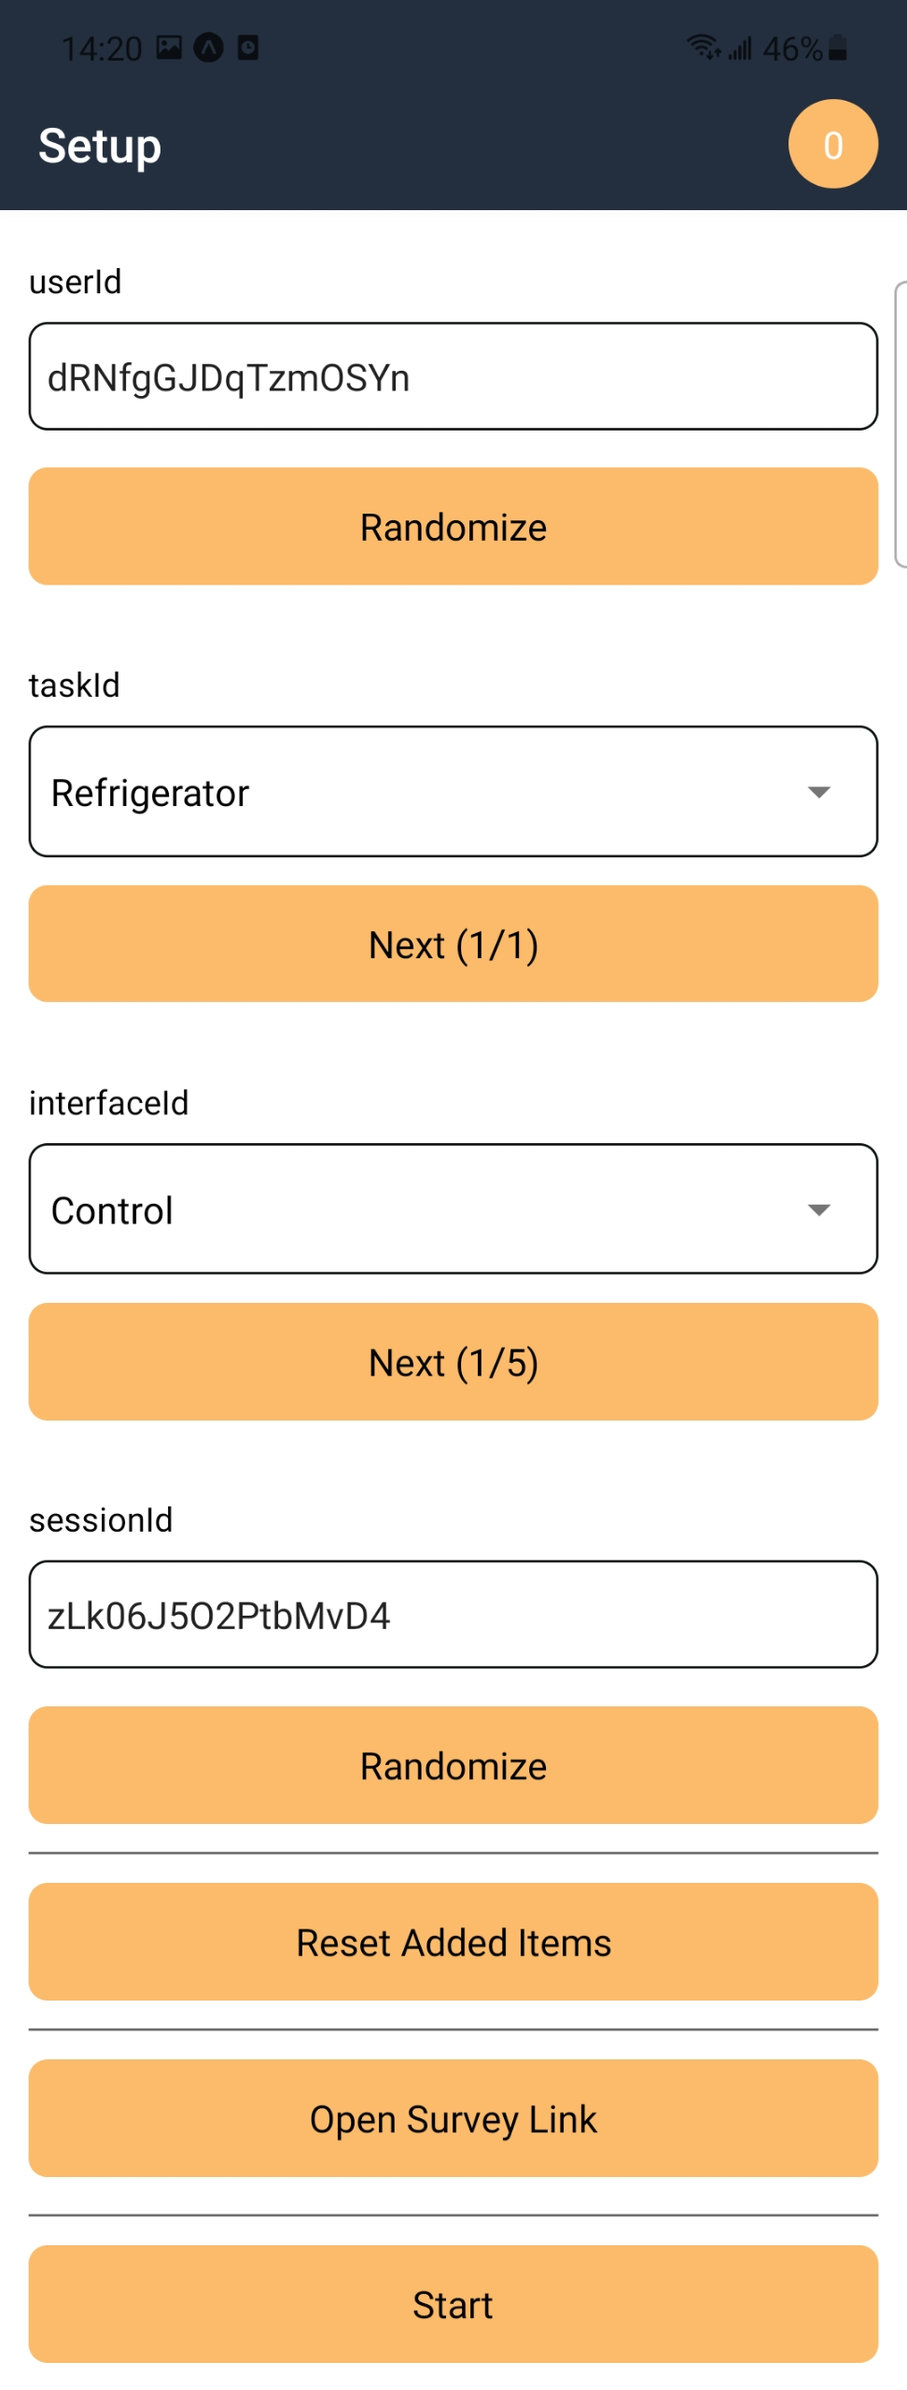
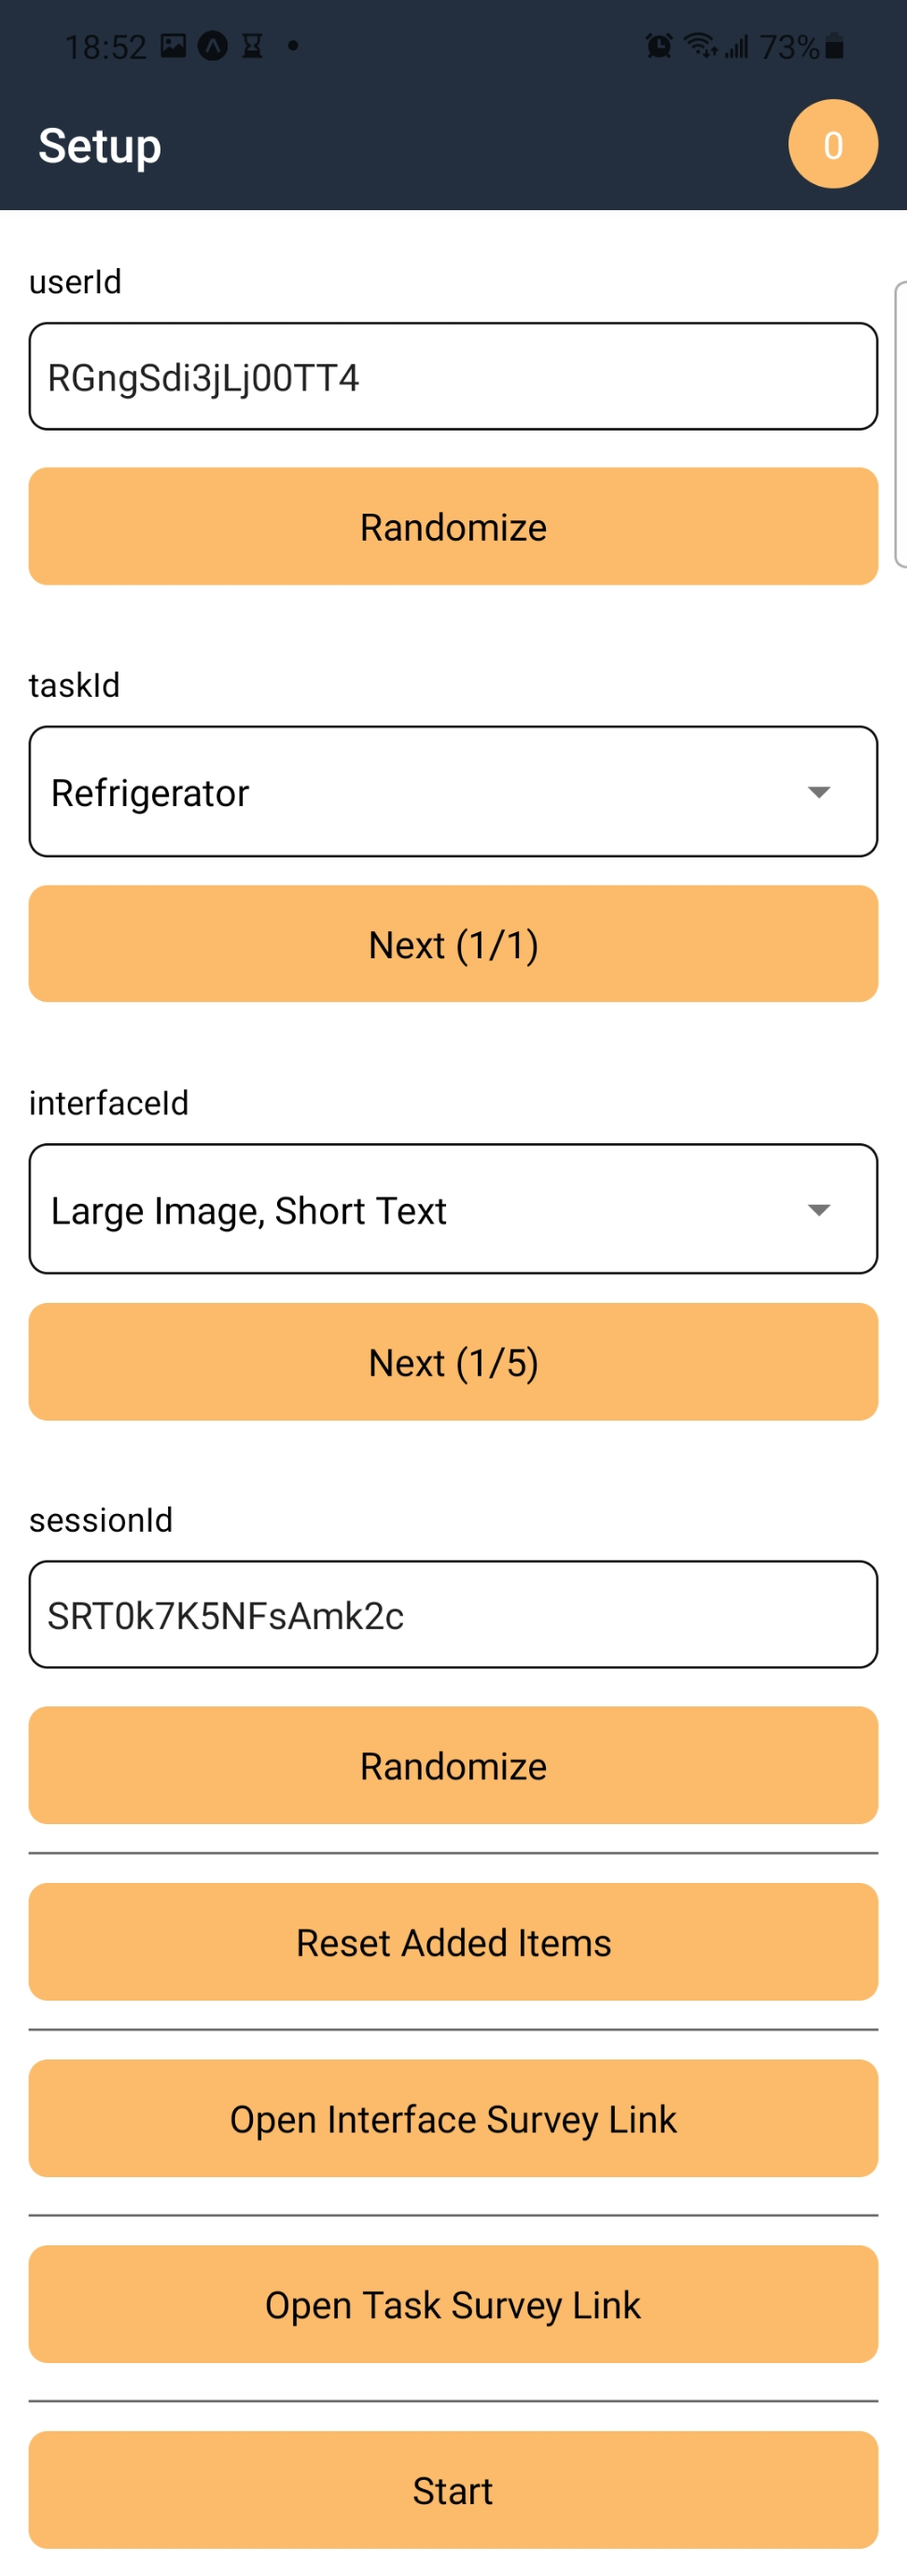
fix: setup screen

diff --git a/screens/SetupScreen.js b/screens/SetupScreen.js
@@ -6,7 +6,7 @@ import {useNavigation} from '@react-navigation/native';
 import RNPickerSelect from 'react-native-picker-select';
 import {getInterfaceIndex, getNextIndex} from "../helpers/interface.helpers";
 import {Line} from "../components/common/Line";
-import {generateInterfaceSurveyLink, generateOverallSurveyLink} from "../wrappers/GoogleForm";
+import {generateInterfaceSurveyLink, generateTaskSurveyLink} from "../wrappers/GoogleForm";
 
 const DEFAULT_PROMPT = 'Randomize';
 
@@ -161,18 +161,18 @@ export function SetupScreen() {
         }}
       >
         <View style={styles.main}>
-          <Text style={styles.prompt}>Open Survey Link</Text>
+          <Text style={styles.prompt}>Open Interface Survey Link</Text>
         </View>
       </TouchableHighlight>
       <Line style={styles.line}/>
       <TouchableHighlight
         style={styles.button}
         onPress={()=>{
-          Linking.openURL(generateOverallSurveyLink(userId, sessionId, taskId))
+          Linking.openURL(generateTaskSurveyLink(userId, sessionId, taskId))
         }}
       >
         <View style={styles.main}>
-          <Text style={styles.prompt}>Open Overall Survey Link</Text>
+          <Text style={styles.prompt}>Open Task Survey Link</Text>
         </View>
       </TouchableHighlight>
       <Line style={styles.line}/>

diff --git a/wrappers/GoogleForm.js b/wrappers/GoogleForm.js
@@ -4,6 +4,6 @@ export function generateInterfaceSurveyLink(userId, sessionId, taskId, interface
   return SECRETS.getFormUrl(userId, sessionId, taskId, interfaceId);
 }
 
-export function generateOverallSurveyLink(userId, sessionId, taskId){
+export function generateTaskSurveyLink(userId, sessionId, taskId){
   return SECRETS.getOverallFormUrl(userId, sessionId, taskId)
 }
